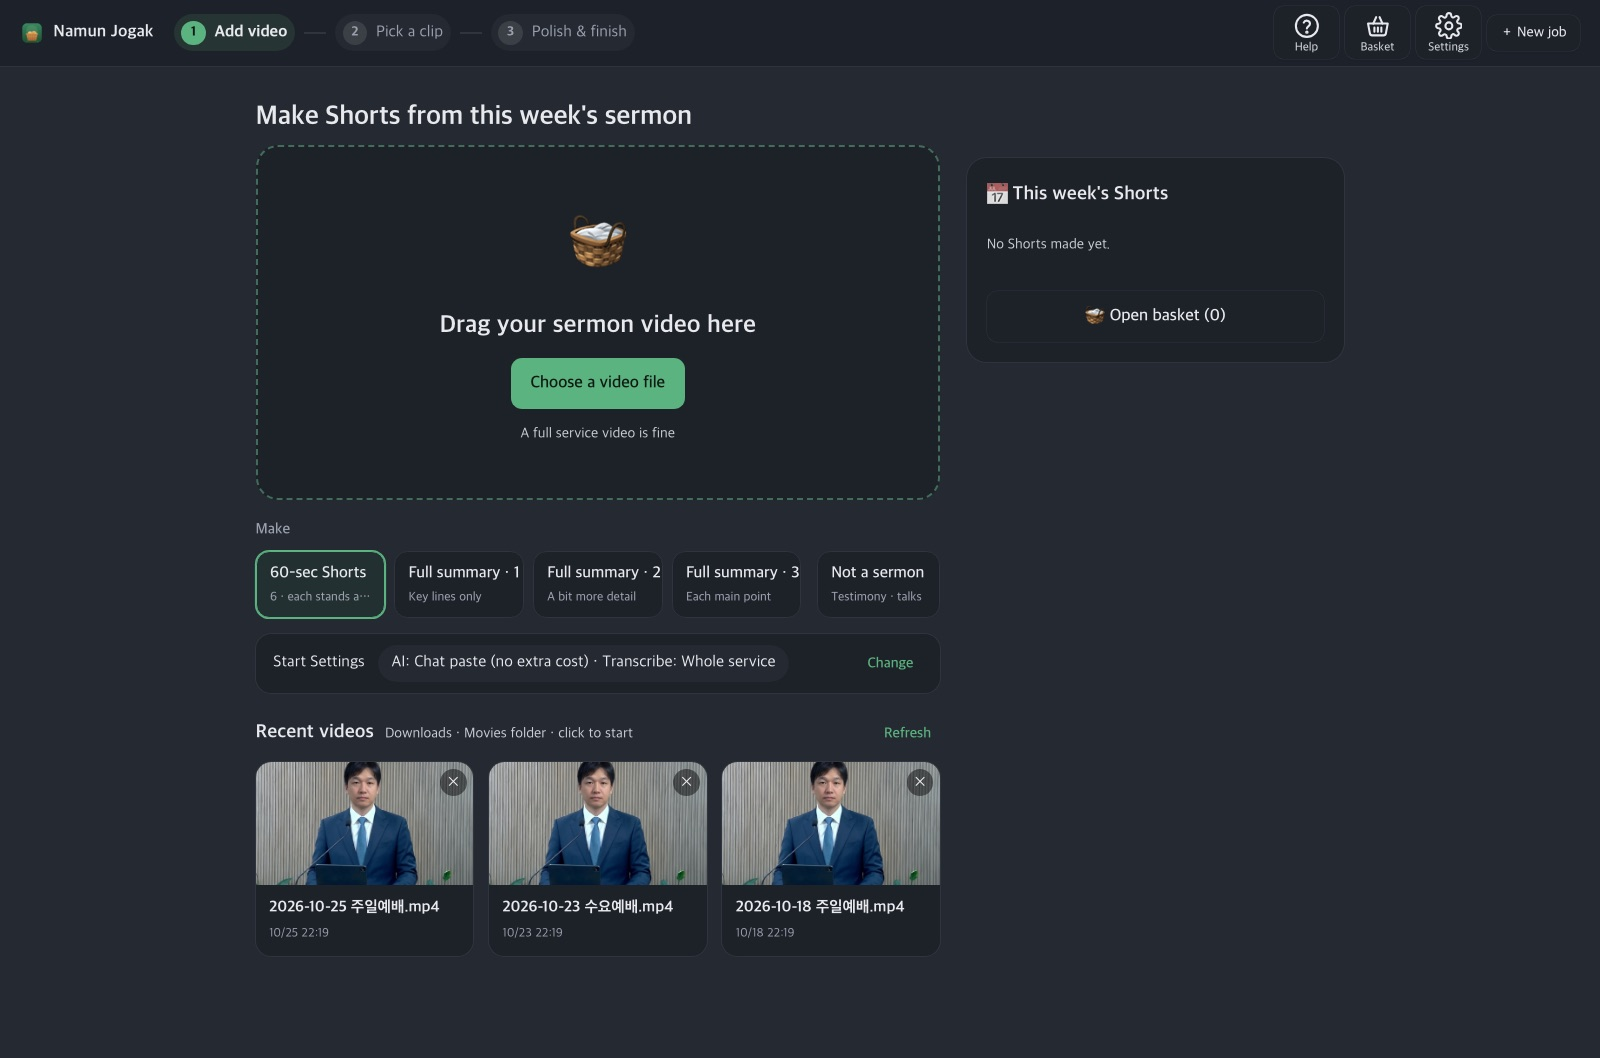
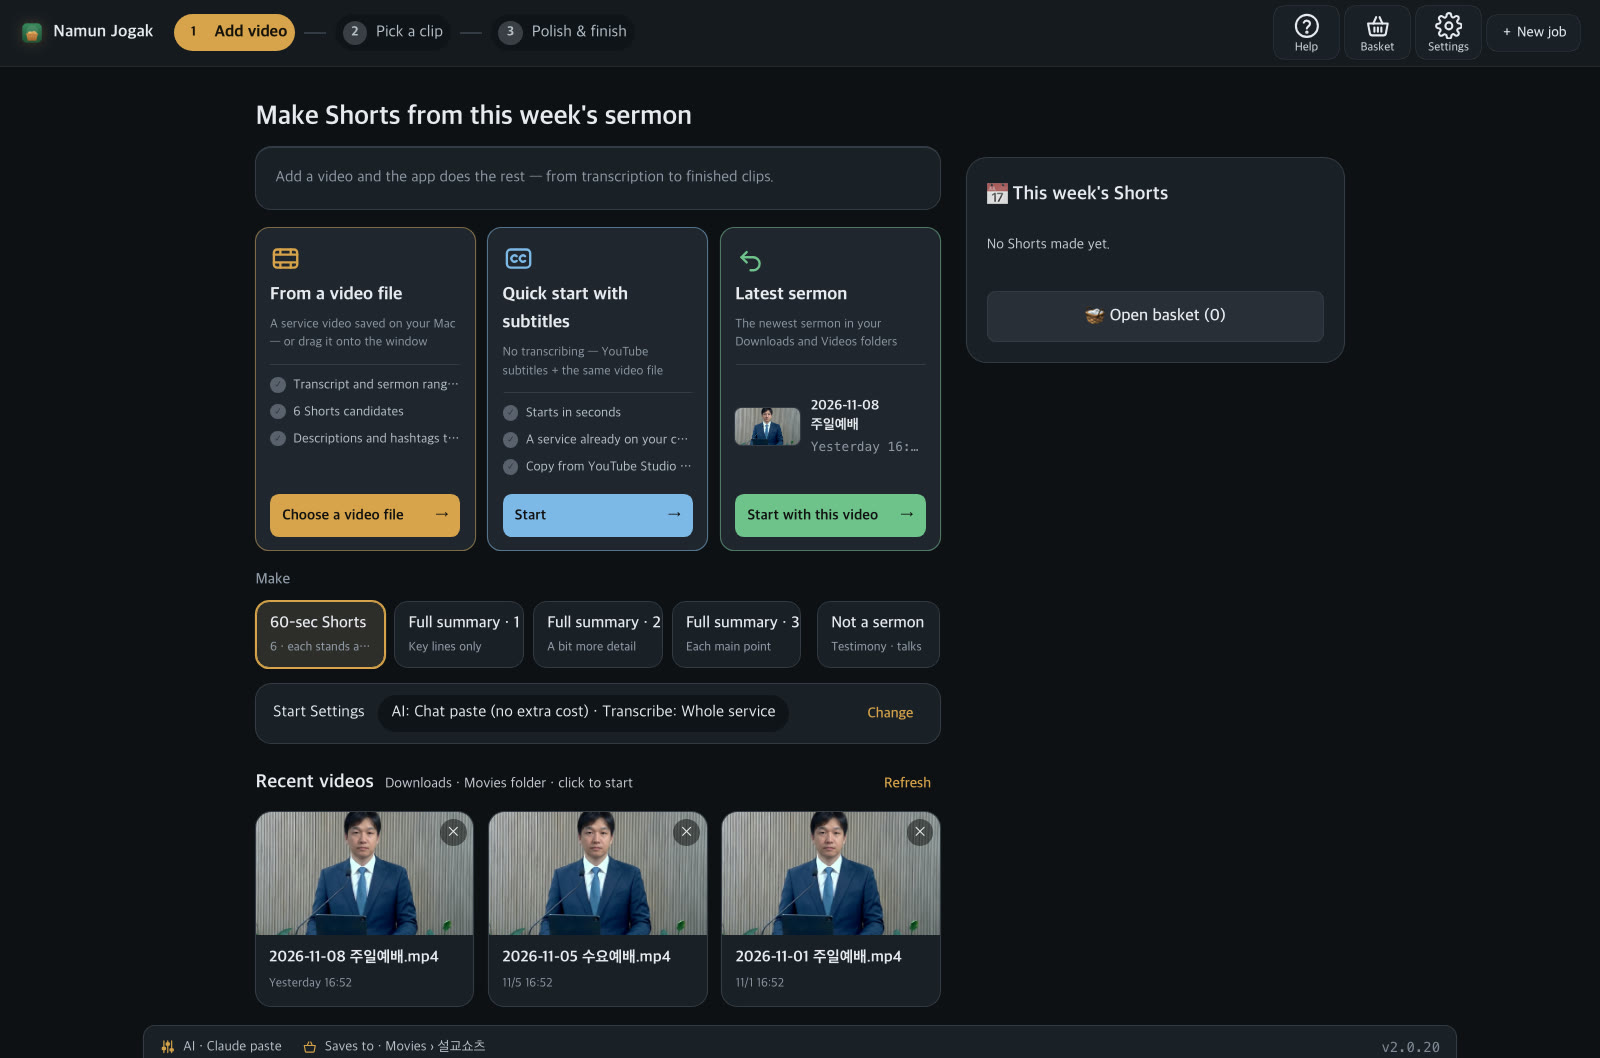
홈페이지 화면 사진을 2.0.20 새 디자인으로: v2_1~6(한 · 영) · Windows 창 사진(한 · 영), ?v 올림(첫 화면 · 영어 · 쇼츠 안내)

diff --git a/index.html b/index.html
@@ -62,7 +62,7 @@ document.addEventListener("DOMContentLoaded", function(){
     </div>
     <div class="v2vis" aria-hidden="false">
       <div class="v2big" aria-hidden="true">2.0</div>
-      <div class="v2scr"><img src="img/v2_2.jpg?v=200" alt="남은 조각 2.0 완성본 고르기 화면"></div>
+      <div class="v2scr"><img src="img/v2_2.jpg?v=201" alt="남은 조각 2.0 완성본 고르기 화면"></div>
       <img class="v2ph q1" src="img/tpl_card.jpg?v=202610121" alt="" loading="lazy">
       <img class="v2ph q2" src="img/tpl_grace.jpg?v=202610121" alt="" loading="lazy">
       <img class="v2ph q3" src="img/tpl_sunday.jpg?v=202610121" alt="" loading="lazy">
@@ -152,27 +152,27 @@ document.addEventListener("DOMContentLoaded", function(){
   <h2 class="center">실제 화면으로 보기</h2>
   <p class="sub center">2.0은 세 단계입니다 — 영상 넣기 · 완성본 고르기 · 다듬고 완성. 왼쪽에서는 만들어질 쇼츠를 늘 확인하며, 고친 것이 바로 미리보기에 보입니다.<br><span class="zhint"><span class="hm">사진에 마우스를 올리면 크게 보이고, 누르면 화면 가득 펼쳐집니다.</span><span class="ht">사진을 누르면 화면 가득 크게 볼 수 있습니다.</span></span></p>
   <div class="shot">
-    <div class="win"><div class="bar"><i></i><i></i><i></i></div><div class="zoom" tabindex="0" role="button" aria-label="영상 넣기 화면 크게 보기"><img src="img/v2_1.jpg?v=200" alt="영상 넣기 화면" loading="lazy"></div></div>
+    <div class="win"><div class="bar"><i></i><i></i><i></i></div><div class="zoom" tabindex="0" role="button" aria-label="영상 넣기 화면 크게 보기"><img src="img/v2_1.jpg?v=201" alt="영상 넣기 화면" loading="lazy"></div></div>
     <div class="txt"><span class="stepno">1단계 · 영상 넣기</span><h3>설교 영상을 끌어다 놓으세요</h3><p>교회가 가진 설교 영상 파일을 창에 끌어다 놓거나 고르면, 앱이 바로 한국어로 받아씁니다. 예배 전체 영상이어도 됩니다. 아래 ‘최근 영상’에서 다운로드 · 동영상 폴더의 영상을 누르기만 해도 시작합니다.</p><p>무엇을 만들지도 고릅니다 — 60초 쇼츠 6개, 설교 전체 요약 1 · 2 · 3분, 설교가 아닌 영상(간증 · 특강).</p></div>
   </div>
   <div class="shot rev">
-    <div class="win"><div class="bar"><i></i><i></i><i></i></div><div class="zoom" tabindex="0" role="button" aria-label="완성본 고르기 화면 크게 보기"><img src="img/v2_2.jpg?v=200" alt="완성본 고르기 화면" loading="lazy"></div></div>
+    <div class="win"><div class="bar"><i></i><i></i><i></i></div><div class="zoom" tabindex="0" role="button" aria-label="완성본 고르기 화면 크게 보기"><img src="img/v2_2.jpg?v=201" alt="완성본 고르기 화면" loading="lazy"></div></div>
     <div class="txt"><span class="stepno">2단계 · 완성본 고르기</span><h3>AI가 고른 은혜의 조각, 이미 완성된 모습으로</h3><p>설교 가운데 다시 들려줄 만한 대목을 서로 겹치지 않게 골라, 제목 · 자막 · 교회 템플릿 · 음악까지 입힌 완성본 6개를 보여 줍니다. 카드에서 바로 재생해 보고, 분위기(따뜻하게 · 힘 있게 · 잔잔하게 · 장엄하게)를 눌러 바꿔 봅니다.</p><p><b>문장 첫머리에서 시작해 말씀이 맺는 문장에서 끝나도록</b> 맞춥니다. 마음에 들면 ‘이걸로’, 손보고 싶으면 ‘고치기’.</p></div>
   </div>
   <div class="shot">
-    <div class="win"><div class="bar"><i></i><i></i><i></i></div><div class="zoom" tabindex="0" role="button" aria-label="다듬기 화면 크게 보기"><img src="img/v2_3.jpg?v=200" alt="다듬기 화면" loading="lazy"></div></div>
+    <div class="win"><div class="bar"><i></i><i></i><i></i></div><div class="zoom" tabindex="0" role="button" aria-label="다듬기 화면 크게 보기"><img src="img/v2_3.jpg?v=201" alt="다듬기 화면" loading="lazy"></div></div>
     <div class="txt"><span class="stepno">3단계 · 다듬고 완성</span><h3>고칠 것은 그 자리에서, 단추 몇 개로</h3><p>왼쪽 미리보기의 제목 · 자막을 눌러 바로 고치고 끌어서 옮깁니다. 분위기 카드 하나로 템플릿 · 글꼴 · 음악 · 자막 움직임이 한 번에 바뀌고, 길이는 ‘한 문장 더 · 빼기’로 말씀이 맺는 곳에 맞춥니다.</p><p>템플릿 56종 · 제목 글꼴 11종 · 배경 음악 41곡(찬송가 피아노 반주 포함). 교회 로고와 설교 본문이 저절로 들어갑니다.</p></div>
   </div>
   <div class="shot rev">
-    <div class="win"><div class="bar"><i></i><i></i><i></i></div><div class="zoom" tabindex="0" role="button" aria-label="자르기 화면 크게 보기"><img src="img/v2_4.jpg?v=200" alt="자르기 화면" loading="lazy"></div></div>
+    <div class="win"><div class="bar"><i></i><i></i><i></i></div><div class="zoom" tabindex="0" role="button" aria-label="자르기 화면 크게 보기"><img src="img/v2_4.jpg?v=201" alt="자르기 화면" loading="lazy"></div></div>
     <div class="txt"><span class="stepno">3단계 · 자르기 판</span><h3>군말 · 되풀이는 끌어 올려 빼기</h3><p>소리 모양과 낱말을 보며 뺄 곳에 빗금을 긋고 위로 끌어 올리면 빠집니다. ‘군말 · 되풀이 찾기(AI)’가 긴 쉼과 같은 말 되풀이를 찾아 표시해 줍니다. 뺀 곳은 이음매를 누르면 되살아나고, 잘라 낸 말은 자막에서도 지워집니다.</p></div>
   </div>
   <div class="shot">
-    <div class="win"><div class="bar"><i></i><i></i><i></i></div><div class="zoom" tabindex="0" role="button" aria-label="완성하기 화면 크게 보기"><img src="img/v2_5.jpg?v=200" alt="완성하기 화면" loading="lazy"></div></div>
+    <div class="win"><div class="bar"><i></i><i></i><i></i></div><div class="zoom" tabindex="0" role="button" aria-label="완성하기 화면 크게 보기"><img src="img/v2_5.jpg?v=201" alt="완성하기 화면" loading="lazy"></div></div>
     <div class="txt"><span class="stepno">3단계 · 완성하기 1~5</span><h3>위에서부터 차례로 — 끝낸 것에는 ✓</h3><p>썸네일 고르기 → 자막 파일(한국어 · 영어 SRT) → 영상 저장(1080×1920 세로) → 유튜브에 올리기(지금 공개 또는 예약 공개) → 카톡 · 주보로 알리기. 필요 없는 단계는 건너뛰어도 됩니다.</p><p>유튜브에 연결해 두었다면 올릴 채널 이름을 확인한 뒤 올립니다. 완성본 여러 개를 하루에 하나씩, 고른 시각에 공개되게 한 주치를 한 번에 예약할 수도 있습니다.</p></div>
   </div>
   <div class="shot rev">
-    <div class="win"><div class="bar"><i></i><i></i><i></i></div><div class="zoom" tabindex="0" role="button" aria-label="카톡 · 주보 공유 카드 화면 크게 보기"><img src="img/v2_6.jpg?v=200" alt="카톡 · 주보 공유 카드 화면" loading="lazy"></div></div>
+    <div class="win"><div class="bar"><i></i><i></i><i></i></div><div class="zoom" tabindex="0" role="button" aria-label="카톡 · 주보 공유 카드 화면 크게 보기"><img src="img/v2_6.jpg?v=201" alt="카톡 · 주보 공유 카드 화면" loading="lazy"></div></div>
     <div class="txt"><span class="stepno">새 기능 · 카톡 · 주보 공유 카드</span><h3>성도에게 보낼 그림 한 장과 카톡 글</h3><p>올린 쇼츠를 성도들이 바로 누르고 볼 수 있게, 제목 · 맺는 문장 · QR이 든 공유 카드 그림을 만듭니다. 교회력에 맞춘 52주 색과 테두리 6가지에서 고르고, 함께 보낼 카톡 글도 써 줍니다.</p><p>그림을 복사해 카톡 대화창에 붙여 넣거나 저장해 주보에 씁니다. 앱이 카톡으로 직접 보내지는 않습니다.</p></div>
   </div>
 </div></section>
@@ -277,7 +277,7 @@ document.addEventListener("DOMContentLoaded", function(){
       <div class="pbtn" style="max-width:340px"><a class="btn" data-pay="namun.win_trial">Windows용 내려받기<em class="newTag">출시</em><em class="soonTag">시험 중 · 곧 엽니다</em></a><a class="btn ghost winSoon" href="mailto:alma9777a@gmail.com?subject=%EB%82%A8%EC%9D%80%20%EC%A1%B0%EA%B0%81%20Windows%20%EC%B6%9C%EC%8B%9C%20%EC%95%8C%EB%A6%BC">열리면 알림 받기</a></div>
       <p class="wnote winSoon">‘열리면 알림 받기’로 메일을 보내 주시면 내려받기가 열릴 때 가장 먼저 알려 드립니다.</p><p class="wnote winOpen"><b>설치할 때 파란 창이 나오면</b> — ‘Windows의 PC 보호’라는 창이 나오면 <b>추가 정보</b>를 누른 다음 <b>실행</b>을 누르세요. 새로 나온 프로그램에 처음 한 번 나오는 안내입니다.</p>
     </div>
-    <div class="wimg"><img src="img/windows.jpg" data-win-src="img/windows_v2.jpg?v=1" alt="Windows에서 실행한 남은 조각 화면" loading="lazy"><p class="wcap winSoon">출시 전 미리보기 화면입니다. 실제 화면은 달라질 수 있습니다.</p></div>
+    <div class="wimg"><img src="img/windows.jpg" data-win-src="img/windows_v2.jpg?v=2" alt="Windows에서 실행한 남은 조각 화면" loading="lazy"><p class="wcap winSoon">출시 전 미리보기 화면입니다. 실제 화면은 달라질 수 있습니다.</p></div>
   </div>
 </div></section>
 

diff --git a/en/index.html b/en/index.html
@@ -44,7 +44,7 @@
     </div>
     <div class="v2vis" aria-hidden="false">
       <div class="v2big" aria-hidden="true">2.0</div>
-      <div class="v2scr"><img src="img/v2_2.jpg?v=200" alt="Namun Jogak 2.0 pick-a-clip screen"></div>
+      <div class="v2scr"><img src="img/v2_2.jpg?v=201" alt="Namun Jogak 2.0 pick-a-clip screen"></div>
       <img class="v2ph q1" src="img/tpl_card.jpg?v=202610121" alt="" loading="lazy">
       <img class="v2ph q2" src="img/tpl_grace.jpg?v=202610121" alt="" loading="lazy">
       <img class="v2ph q3" src="img/tpl_sunday.jpg?v=202610121" alt="" loading="lazy">
@@ -130,27 +130,27 @@
   <h2 class="center">See the real screens</h2>
   <p class="sub center">Version 2.0 has three steps — add video, pick a clip, polish &amp; finish. On the left you always see the Short you are making, and every change shows up right away.<br><span class="zhint"><span class="hm">Hover over a picture to zoom in; click to open it full screen.</span><span class="ht">Tap a picture to see it full screen.</span></span></p>
   <div class="shot">
-    <div class="win"><div class="bar"><i></i><i></i><i></i></div><div class="zoom" tabindex="0" role="button" aria-label="Enlarge the Add video screen"><img src="img/v2_1.jpg?v=200" alt="Add video screen" loading="lazy"></div></div>
+    <div class="win"><div class="bar"><i></i><i></i><i></i></div><div class="zoom" tabindex="0" role="button" aria-label="Enlarge the Add video screen"><img src="img/v2_1.jpg?v=201" alt="Add video screen" loading="lazy"></div></div>
     <div class="txt"><span class="stepno">Step 1 · Add video</span><h3>Drag in your sermon video</h3><p>Drag a sermon video file your church owns onto the window, or choose it, and the app transcribes it right away. A full service recording is fine. Or just tap a video under “Recent videos” from your Downloads and Movies folders.</p><p>Choose what to make, too — six 60-second Shorts, a 1, 2 or 3-minute summary of the whole sermon, or a non-sermon video (testimony, lecture).</p></div>
   </div>
   <div class="shot rev">
-    <div class="win"><div class="bar"><i></i><i></i><i></i></div><div class="zoom" tabindex="0" role="button" aria-label="Enlarge the Pick a clip screen"><img src="img/v2_2.jpg?v=200" alt="Pick a clip screen" loading="lazy"></div></div>
+    <div class="win"><div class="bar"><i></i><i></i><i></i></div><div class="zoom" tabindex="0" role="button" aria-label="Enlarge the Pick a clip screen"><img src="img/v2_2.jpg?v=201" alt="Pick a clip screen" loading="lazy"></div></div>
     <div class="txt"><span class="stepno">Step 2 · Pick a clip</span><h3>Moments of grace, already finished</h3><p>It picks non-overlapping moments worth sharing again and shows six finished Shorts with title, captions, church template and music. Play each card and switch its mood (warm · bold · calm · majestic).</p><p>Each clip <b>starts at the beginning of a sentence and ends on the line that closes the thought</b>. Like it? “Use this”. Want to adjust? “Edit”.</p></div>
   </div>
   <div class="shot">
-    <div class="win"><div class="bar"><i></i><i></i><i></i></div><div class="zoom" tabindex="0" role="button" aria-label="Enlarge the Polish screen"><img src="img/v2_3.jpg?v=200" alt="Polish screen" loading="lazy"></div></div>
+    <div class="win"><div class="bar"><i></i><i></i><i></i></div><div class="zoom" tabindex="0" role="button" aria-label="Enlarge the Polish screen"><img src="img/v2_3.jpg?v=201" alt="Polish screen" loading="lazy"></div></div>
     <div class="txt"><span class="stepno">Step 3 · Polish &amp; finish</span><h3>Fix things in place, with a few buttons</h3><p>Tap the title or a caption in the preview to fix it, and drag it to move it. One mood card changes template, font, music and caption motion together; “one sentence more / less” sets the length to where the Word lands.</p><p>56 templates · 11 title fonts · 41 music tracks including hymn piano accompaniments. Your church logo and the sermon passage go in automatically.</p></div>
   </div>
   <div class="shot rev">
-    <div class="win"><div class="bar"><i></i><i></i><i></i></div><div class="zoom" tabindex="0" role="button" aria-label="Enlarge the Trim screen"><img src="img/v2_4.jpg?v=200" alt="Trim screen" loading="lazy"></div></div>
+    <div class="win"><div class="bar"><i></i><i></i><i></i></div><div class="zoom" tabindex="0" role="button" aria-label="Enlarge the Trim screen"><img src="img/v2_4.jpg?v=201" alt="Trim screen" loading="lazy"></div></div>
     <div class="txt"><span class="stepno">Step 3 · Trim panel</span><h3>Cut filler and repeats by lifting them out</h3><p>Mark what to remove on the waveform and words, then drag it up to cut it. “Find filler · repeats (AI)” marks long pauses and repeated words for you. Tap a seam to bring a cut back; cut words disappear from the captions too.</p></div>
   </div>
   <div class="shot">
-    <div class="win"><div class="bar"><i></i><i></i><i></i></div><div class="zoom" tabindex="0" role="button" aria-label="Enlarge the Finish screen"><img src="img/v2_5.jpg?v=200" alt="Finish screen" loading="lazy"></div></div>
+    <div class="win"><div class="bar"><i></i><i></i><i></i></div><div class="zoom" tabindex="0" role="button" aria-label="Enlarge the Finish screen"><img src="img/v2_5.jpg?v=201" alt="Finish screen" loading="lazy"></div></div>
     <div class="txt"><span class="stepno">Step 3 · Finish 1–5</span><h3>Top to bottom — finished steps get a ✓</h3><p>Choose a thumbnail → caption file (Korean · English SRT) → save video (1080×1920 vertical) → upload to YouTube (now or scheduled) → share on KakaoTalk / bulletin. Skip any step you do not need.</p><p>If YouTube is connected, you confirm the channel name before uploading. You can also schedule a whole week — one Short a day at the time you choose.</p></div>
   </div>
   <div class="shot rev">
-    <div class="win"><div class="bar"><i></i><i></i><i></i></div><div class="zoom" tabindex="0" role="button" aria-label="Enlarge the Share card screen"><img src="img/v2_6.jpg?v=200" alt="Share card screen" loading="lazy"></div></div>
+    <div class="win"><div class="bar"><i></i><i></i><i></i></div><div class="zoom" tabindex="0" role="button" aria-label="Enlarge the Share card screen"><img src="img/v2_6.jpg?v=201" alt="Share card screen" loading="lazy"></div></div>
     <div class="txt"><span class="stepno">New · KakaoTalk / bulletin share card</span><h3>One picture and a message for your members</h3><p>So members can open the Short right away, it makes a share card with the title, closing line and a QR code, in 52 weekly church-year colors and 6 frames, and writes the message to send with it.</p><p>Copy the picture into a KakaoTalk chat or save it for the bulletin. The app never sends anything to KakaoTalk by itself.</p></div>
   </div>
 </div></section>
@@ -244,7 +244,7 @@
       <div class="pbtn" style="max-width:340px"><a class="btn" data-pay="namun.win_trial">Download for Windows<em class="newTag">NEW</em><em class="soonTag">Opening soon</em></a></div>
       <p class="wnote winOpen"><b>If a blue window appears</b> — when “Windows protected your PC” appears, click <b>More info</b>, then <b>Run anyway</b>. It shows once for newly released programs.</p>
     </div>
-    <div class="wimg"><img src="img/windows_v2.jpg?v=1" alt="Namun Jogak 2.0 running on Windows" loading="lazy"></div>
+    <div class="wimg"><img src="img/windows_v2.jpg?v=2" alt="Namun Jogak 2.0 running on Windows" loading="lazy"></div>
   </div>
 </div></section>
 

diff --git a/shorts-guide.html b/shorts-guide.html
@@ -94,22 +94,22 @@
 <p><a href="./">남은 조각</a>은 위의 순서를 <b>세 단계</b>로 줄인 맥 · Windows 프로그램입니다. 영상을 넣으면 제목 · 자막 · 템플릿 · 음악까지 입힌 완성본이 먼저 나오고, 마음에 드는 것을 골라 그 자리에서 다듬습니다. 영상 편집을 몰라도 쓸 수 있도록 만들었습니다.</p>
 <h3>1단계 — 영상 넣기</h3>
 <p>교회가 가진 설교 영상 파일을 창에 끌어다 놓거나 고릅니다. 예배 전체 영상이어도 됩니다. 넣으면 컴퓨터 안에서 바로 한국어로 받아쓰고, 설교가 시작되는 지점을 찾아냅니다. 영상은 밖으로 보내지 않습니다. 무엇을 만들지도 고릅니다 — 60초 쇼츠 6개, 설교 전체를 간추린 1 · 2 · 3분 요약, 간증 · 특강 같은 설교 아닌 영상.</p>
-<div class="shot"><img src="img/v2_1.jpg?v=200" alt="남은 조각 2.0 첫 화면 — 설교 영상 끌어다 놓기와 최근 영상 목록" loading="lazy" width="1600" height="1058"></div>
+<div class="shot"><img src="img/v2_1.jpg?v=201" alt="남은 조각 2.0 첫 화면 — 설교 영상 끌어다 놓기와 최근 영상 목록" loading="lazy" width="1600" height="1058"></div>
 <p class="cap">다운로드 · 동영상 폴더의 최근 영상을 누르기만 해도 시작됩니다.</p>
 <h3>2단계 — 완성본 고르기</h3>
 <p>AI가 받아쓴 설교를 읽고, 앞뒤 맥락 없이도 하나의 메시지로 완결되고 복음과 은혜가 드러나는 대목을 서로 겹치지 않게 고릅니다. 앱이 받아쓴 말의 시간을 다시 확인해 문장 첫머리에서 시작하고 주제를 맺는 문장에서 끝나도록 맞춘 뒤, 제목 · 자막 · 교회 템플릿 · 음악까지 입힌 <b>완성본 6개</b>로 보여 줍니다. 카드에서 바로 재생해 보고, 분위기(따뜻하게 · 힘 있게 · 잔잔하게 · 장엄하게)를 눌러 바꿔 볼 수 있습니다.</p>
-<div class="shot"><img src="img/v2_2.jpg?v=200" alt="남은 조각 2.0 완성본 고르기 화면 — AI가 고른 설교 쇼츠 완성본 카드" loading="lazy" width="1600" height="1058"></div>
+<div class="shot"><img src="img/v2_2.jpg?v=201" alt="남은 조각 2.0 완성본 고르기 화면 — AI가 고른 설교 쇼츠 완성본 카드" loading="lazy" width="1600" height="1058"></div>
 <p class="cap">마음에 들면 ‘이걸로’, 손보고 싶으면 ‘고치기’를 누릅니다.</p>
 <h3>3단계 — 다듬고 완성</h3>
 <p>왼쪽 미리보기의 제목 · 자막을 눌러 바로 고치고, 끌어서 옮깁니다. 분위기 카드 하나로 템플릿 · 글꼴 · 음악 · 자막 움직임이 한 번에 바뀌고, 길이는 ‘한 문장 더 · 빼기’로 말씀이 맺는 곳에 맞춥니다. 교회용 템플릿 56가지와 저작권 걱정 없는 배경 음악 41곡(찬송가 반주 · 워십 포함)이 들어 있고, 교회 이름 · 로고와 성경 구절은 저절로 들어갑니다.</p>
-<div class="shot"><img src="img/v2_3.jpg?v=200" alt="남은 조각 2.0 다듬기 화면 — 분위기 · 길이 · 설교자 크기" loading="lazy" width="1600" height="1058"></div>
+<div class="shot"><img src="img/v2_3.jpg?v=201" alt="남은 조각 2.0 다듬기 화면 — 분위기 · 길이 · 설교자 크기" loading="lazy" width="1600" height="1058"></div>
 <p class="cap">고친 것은 왼쪽 미리보기에 바로 보입니다.</p>
 <p>군말이나 같은 말 되풀이는 ‘자르기’ 판에서 뺍니다. ‘군말 · 되풀이 찾기(AI)’가 긴 쉼과 되풀이를 표시해 주고, 뺄 곳을 위로 끌어 올리면 빠집니다. 잘라 낸 말은 자막에서도 지워집니다.</p>
 <p>다 되면 ‘완성하기’를 눌러 위에서부터 차례로 끝냅니다 — <b>썸네일 고르기 → 자막 파일 → 영상 저장(세로 1080×1920) → 유튜브에 올리기(지금 공개 · 예약 공개) → 카톡 · 주보로 알리기</b>. 유튜브 계정을 연결해 두면 올릴 채널 이름을 확인한 뒤 올리고, 한 주 치 쇼츠를 하루에 하나씩 예약해 둘 수도 있습니다.</p>
-<div class="shot"><img src="img/v2_5.jpg?v=200" alt="남은 조각 2.0 완성하기 화면 — 썸네일 · 자막 파일 · 영상 저장 · 유튜브 · 공유 카드" loading="lazy" width="1600" height="1058"></div>
+<div class="shot"><img src="img/v2_5.jpg?v=201" alt="남은 조각 2.0 완성하기 화면 — 썸네일 · 자막 파일 · 영상 저장 · 유튜브 · 공유 카드" loading="lazy" width="1600" height="1058"></div>
 <p class="cap">끝낸 단계에는 ✓가 붙습니다. 필요 없는 단계는 건너뛰어도 됩니다.</p>
 <p>마지막으로 성도들에게 알릴 <b>카톡 · 주보 공유 카드</b>를 만듭니다. 제목 · 맺는 문장 · QR이 든 그림 한 장과 함께 보낼 카톡 글을 써 주어, 성도들이 누르기만 하면 쇼츠를 볼 수 있습니다.</p>
-<div class="shot"><img src="img/v2_6.jpg?v=200" alt="남은 조각 2.0 카톡 · 주보 공유 카드 — 교회력 52주 색과 테두리" loading="lazy" width="1600" height="1058"></div>
+<div class="shot"><img src="img/v2_6.jpg?v=201" alt="남은 조각 2.0 카톡 · 주보 공유 카드 — 교회력 52주 색과 테두리" loading="lazy" width="1600" height="1058"></div>
 <p class="cap">그림을 복사해 카톡에 붙여 넣거나 저장해 주보에 씁니다.</p>
 <div class="tbl"><table class="cmp">
 <tr><th></th><th>편집 프로그램으로</th><th>남은 조각으로</th></tr>
